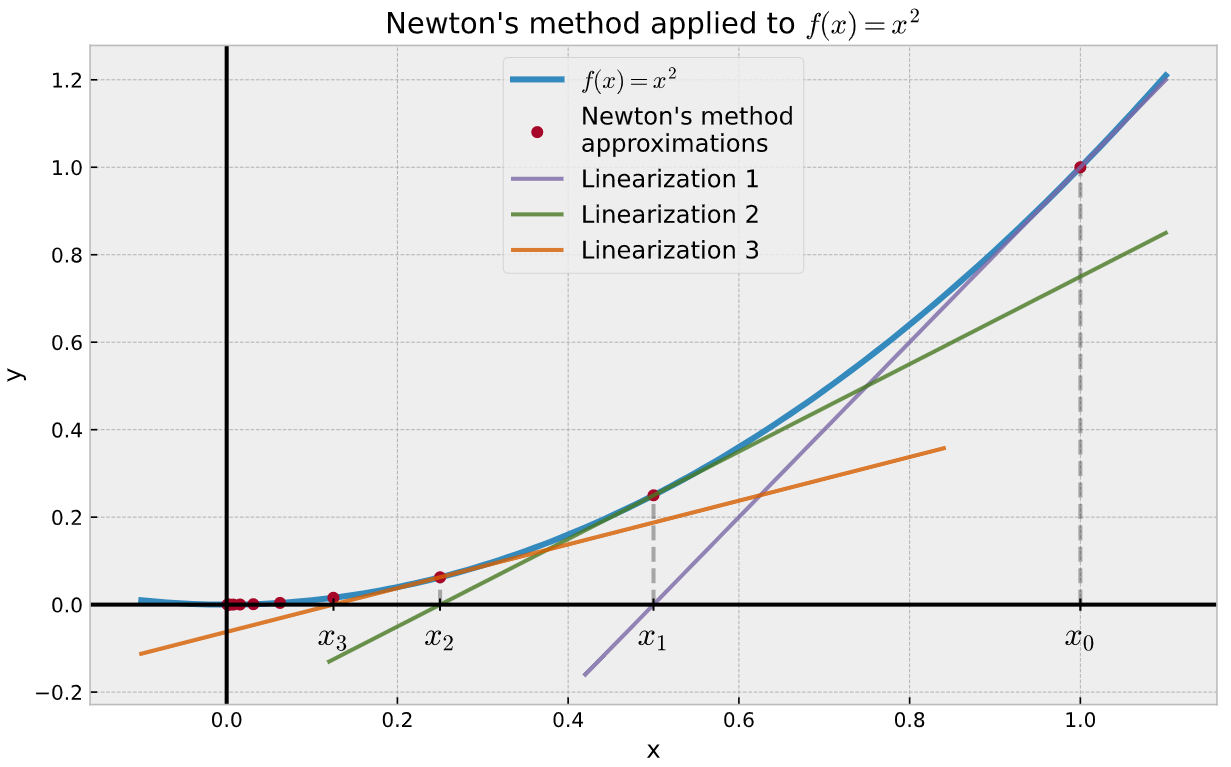
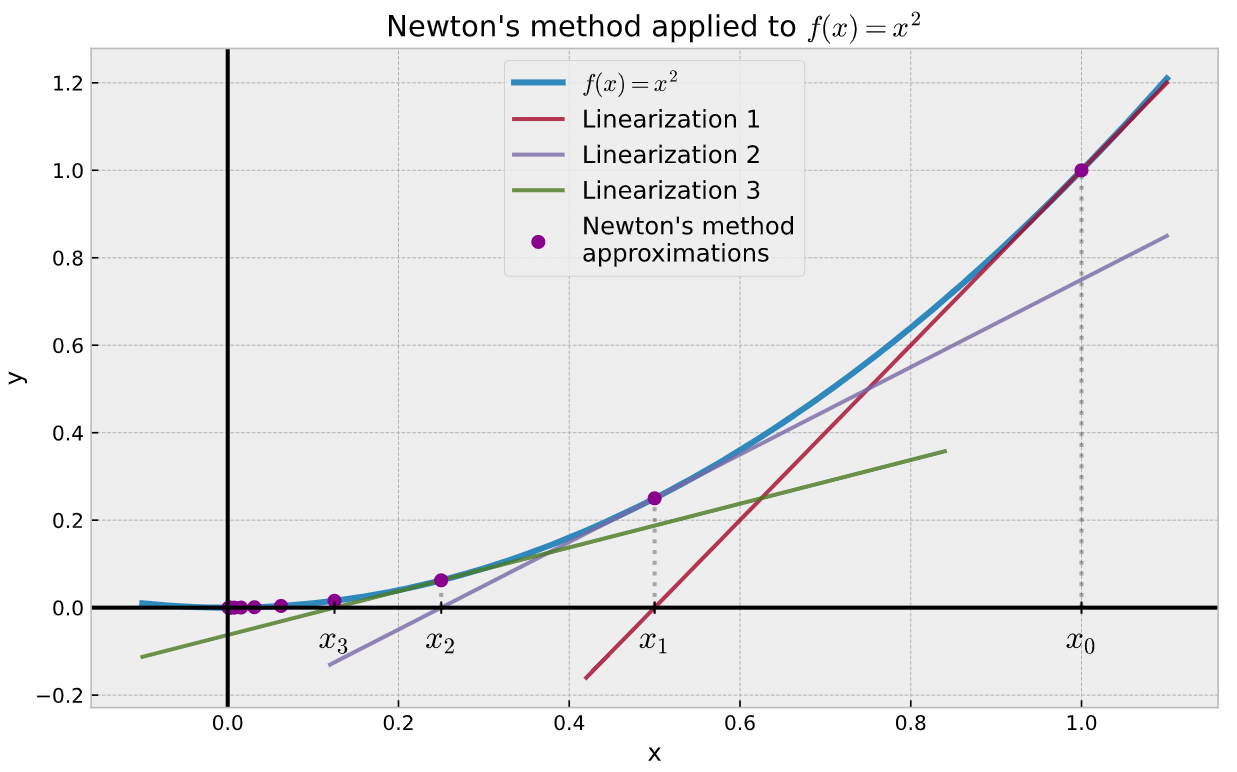
Generate Pelican site

diff --git a/root-hunting-algorithm-newtons-method.html b/root-hunting-algorithm-newtons-method.html
@@ -135,7 +135,7 @@ with initial condition, a suitably chosen <span class="math">\(x_0 \in \mathbb{R
 <span class="sd">    the interval [a, b].</span>
 <span class="sd">    &quot;&quot;&quot;</span>
     <span class="n">df</span> <span class="o">=</span> <span class="n">finite_diff</span><span class="p">(</span><span class="n">f</span><span class="p">)</span>
-    <span class="n">x</span> <span class="o">=</span> <span class="n">np</span><span class="o">.</span><span class="n">linspace</span><span class="p">(</span><span class="n">a</span><span class="p">,</span> <span class="n">b</span><span class="p">,</span> <span class="mi">250</span><span class="p">)</span>
+    <span class="n">x</span> <span class="o">=</span> <span class="n">np</span><span class="o">.</span><span class="n">linspace</span><span class="p">(</span><span class="n">a</span><span class="p">,</span> <span class="n">b</span><span class="p">,</span> <span class="mi">300</span><span class="p">)</span>
     <span class="n">ytan</span> <span class="o">=</span> <span class="p">(</span><span class="n">x</span> <span class="o">-</span> <span class="n">x0</span><span class="p">)</span><span class="o">*</span><span class="n">df</span><span class="p">(</span><span class="n">x0</span><span class="p">)</span> <span class="o">+</span> <span class="n">f</span><span class="p">(</span><span class="n">x0</span><span class="p">)</span>
 
     <span class="k">return</span> <span class="n">x</span><span class="p">,</span> <span class="n">ytan</span>
@@ -158,7 +158,7 @@ with initial condition, a suitably chosen <span class="math">\(x_0 \in \mathbb{R
 
 <span class="n">fig</span><span class="p">,</span> <span class="n">ax</span> <span class="o">=</span> <span class="n">plt</span><span class="o">.</span><span class="n">subplots</span><span class="p">(</span><span class="n">figsize</span><span class="o">=</span><span class="p">(</span><span class="mi">10</span><span class="p">,</span> <span class="mi">6</span><span class="p">))</span>
 
-<span class="c1"># Points of the function f(x) itself.</span>
+<span class="c1"># Points of the function f(x).</span>
 <span class="n">xs</span> <span class="o">=</span> <span class="n">np</span><span class="o">.</span><span class="n">arange</span><span class="p">(</span><span class="n">start</span><span class="o">=</span><span class="n">lo</span><span class="p">,</span> <span class="n">stop</span><span class="o">=</span><span class="n">hi</span><span class="p">,</span> <span class="n">step</span><span class="o">=</span><span class="mf">0.01</span><span class="p">)</span>
 <span class="n">ys</span> <span class="o">=</span> <span class="n">f</span><span class="p">(</span><span class="n">xs</span><span class="p">)</span>
 
@@ -168,17 +168,18 @@ with initial condition, a suitably chosen <span class="math">\(x_0 \in \mathbb{R
 <span class="n">xtan2</span><span class="p">,</span> <span class="n">ytan2</span> <span class="o">=</span> <span class="n">tangent_line</span><span class="p">(</span><span class="n">f</span><span class="p">,</span> <span class="n">res</span><span class="p">[</span><span class="mi">2</span><span class="p">],</span> <span class="n">lo</span><span class="p">,</span> <span class="mf">0.7</span><span class="o">*</span><span class="n">mesh</span><span class="p">)</span>
 
 <span class="n">ax</span><span class="o">.</span><span class="n">plot</span><span class="p">(</span><span class="n">xs</span><span class="p">,</span> <span class="n">ys</span><span class="p">,</span> <span class="n">label</span><span class="o">=</span><span class="s2">&quot;$f(x) = x^2$&quot;</span><span class="p">,</span> <span class="n">linewidth</span><span class="o">=</span><span class="mi">3</span><span class="p">)</span>
-<span class="n">ax</span><span class="o">.</span><span class="n">plot</span><span class="p">(</span><span class="n">res</span><span class="p">,</span> <span class="n">f</span><span class="p">(</span><span class="n">res</span><span class="p">),</span> <span class="n">label</span><span class="o">=</span><span class="s2">&quot;Newton&#39;s method\o&#39;, linestyle=&#39;*napproximations250 </span>
-        <span class="n">marker</span><span class="o">=</span><span class="kc">None</span><span class="s1">&#39;, 250)</span>
-<span class="n">ax</span><span class="o">.</span><span class="n">plot</span><span class="p">(</span><span class="n">l</span><span class="o">=</span><span class="s2">&quot;Linearization 1*xtan0, ytan0, lab&quot;</span><span class="p">,</span> <span class="n">alpha</span><span class="o">=</span><span class="mi">250</span><span class="p">)</span>
-<span class="n">ax</span><span class="o">.</span><span class="n">plot</span><span class="p">(</span><span class="s2">&quot;Linearization 2&quot;</span><span class="p">,</span><span class="o">*</span><span class="n">xtan1</span><span class="p">,</span> <span class="n">ytan1</span><span class="p">,</span> <span class="n">label</span> <span class="n">alpha</span><span class="o">=</span><span class="mf">0.8</span><span class="p">)</span>
+<span class="n">ax</span><span class="o">.</span><span class="n">plot</span><span class="p">(</span><span class="n">xtan0</span><span class="p">,</span> <span class="n">ytan0</span><span class="p">,</span> <span class="n">label</span><span class="o">=</span><span class="s2">&quot;Linearization 1&quot;</span><span class="p">,</span> <span class="n">alpha</span><span class="o">=</span><span class="mf">0.8</span><span class="p">)</span>
+<span class="n">ax</span><span class="o">.</span><span class="n">plot</span><span class="p">(</span><span class="n">xtan1</span><span class="p">,</span> <span class="n">ytan1</span><span class="p">,</span> <span class="n">label</span><span class="o">=</span><span class="s2">&quot;Linearization 2&quot;</span><span class="p">,</span> <span class="n">alpha</span><span class="o">=</span><span class="mf">0.8</span><span class="p">)</span>
 <span class="n">ax</span><span class="o">.</span><span class="n">plot</span><span class="p">(</span><span class="n">xtan2</span><span class="p">,</span> <span class="n">ytan2</span><span class="p">,</span> <span class="n">label</span><span class="o">=</span><span class="s2">&quot;Linearization 3&quot;</span><span class="p">,</span> <span class="n">alpha</span><span class="o">=</span><span class="mf">0.8</span><span class="p">)</span>
+<span class="n">ax</span><span class="o">.</span><span class="n">plot</span><span class="p">(</span><span class="n">res</span><span class="p">,</span> <span class="n">f</span><span class="p">(</span><span class="n">res</span><span class="p">),</span> <span class="n">color</span><span class="o">=</span><span class="s1">&#39;darkmagenta&#39;</span><span class="p">,</span> 
+        <span class="n">label</span><span class="o">=</span><span class="s2">&quot;Newton&#39;s method</span><span class="se">\n</span><span class="s2">approximations&quot;</span><span class="p">,</span>
+        <span class="n">marker</span><span class="o">=</span><span class="s1">&#39;o&#39;</span><span class="p">,</span> <span class="n">linestyle</span><span class="o">=</span><span class="s1">&#39;None&#39;</span><span class="p">,</span> <span class="n">markersize</span><span class="o">=</span><span class="mi">6</span><span class="p">)</span>
 
-<span class="c1"># Labels for occuring approximations.  </span>
+<span class="c1"># Labels for occurring approximations.</span>
 <span class="k">for</span> <span class="n">i</span> <span class="ow">in</span> <span class="nb">range</span><span class="p">(</span><span class="mi">0</span><span class="p">,</span> <span class="mi">4</span><span class="p">):</span>
     <span class="n">ax</span><span class="o">.</span><span class="n">plot</span><span class="p">(</span><span class="n">res</span><span class="p">[</span><span class="n">i</span><span class="p">],</span> <span class="mi">0</span><span class="p">,</span> <span class="n">marker</span><span class="o">=</span><span class="s1">&#39;+&#39;</span><span class="p">,</span> <span class="n">color</span><span class="o">=</span><span class="s1">&#39;k&#39;</span><span class="p">)</span>
     <span class="n">ax</span><span class="o">.</span><span class="n">vlines</span><span class="p">(</span><span class="n">res</span><span class="p">[</span><span class="n">i</span><span class="p">],</span> <span class="n">ymin</span><span class="o">=</span><span class="mi">0</span><span class="p">,</span> <span class="n">ymax</span><span class="o">=</span><span class="n">f</span><span class="p">(</span><span class="n">res</span><span class="p">[</span><span class="n">i</span><span class="p">]),</span>
-              <span class="n">linestyles</span><span class="o">=</span><span class="s2">&quot;--&quot;</span><span class="p">,</span> <span class="n">color</span><span class="o">=</span><span class="s1">&#39;k&#39;</span><span class="p">,</span> <span class="n">alpha</span><span class="o">=</span><span class="mf">0.3</span><span class="p">)</span>
+              <span class="n">linestyles</span><span class="o">=</span><span class="s1">&#39;dotted&#39;</span><span class="p">,</span> <span class="n">color</span><span class="o">=</span><span class="s1">&#39;k&#39;</span><span class="p">,</span> <span class="n">alpha</span><span class="o">=</span><span class="mf">0.3</span><span class="p">)</span>
     <span class="n">plt</span><span class="o">.</span><span class="n">annotate</span><span class="p">(</span><span class="sa">f</span><span class="s2">&quot;$x_</span><span class="si">{</span><span class="n">i</span><span class="si">}</span><span class="s2">$&quot;</span><span class="p">,</span>
                  <span class="p">(</span><span class="n">res</span><span class="p">[</span><span class="n">i</span><span class="p">],</span> <span class="mi">0</span><span class="p">),</span>
                  <span class="n">textcoords</span><span class="o">=</span><span class="s2">&quot;offset points&quot;</span><span class="p">,</span>
